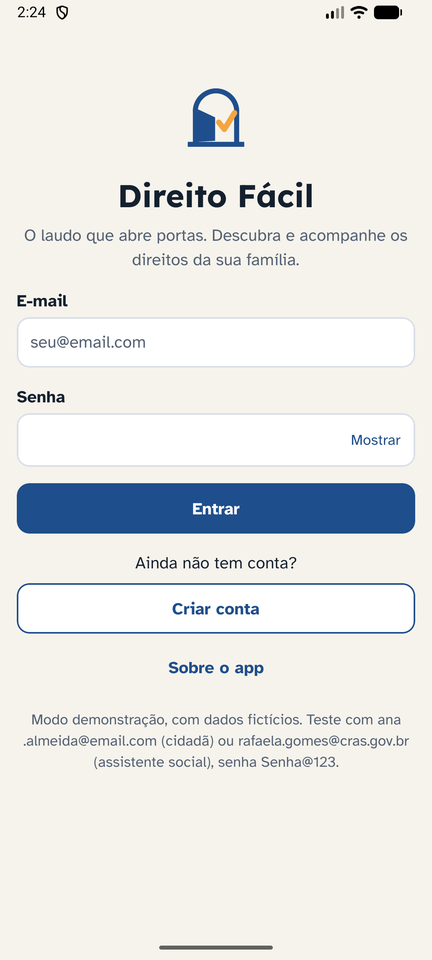
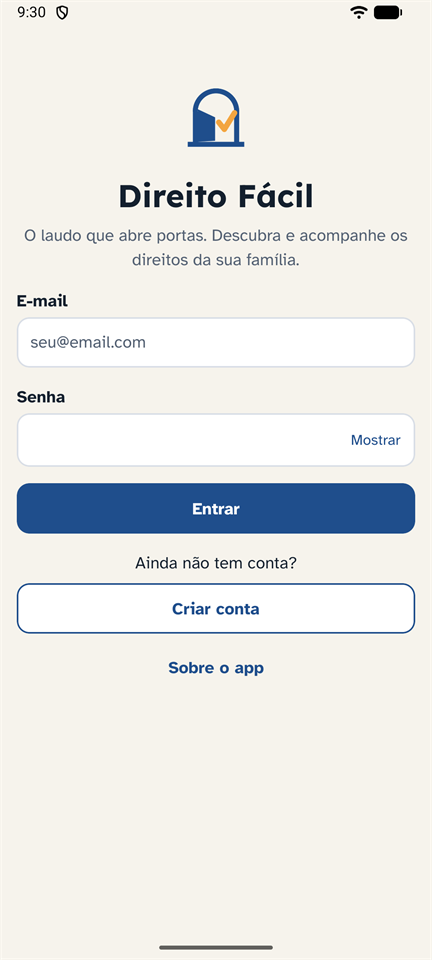
docs: README com o APK, o acesso para testar e prints novos

Changed region(s): [[0.0602, 0.75, 0.9329, 0.8125], [0.0301, 0.0, 0.1204, 0.0312], [0.7523, 0.0, 0.8125, 0.0312]]

diff --git a/README.md b/README.md
@@ -9,9 +9,13 @@ Famílias de pessoas com autismo (TEA), com deficiência (PcD) e idosos de baixa
 <table>
   <tr>
     <td align="center"><img src="docs/telas/01-login.png" width="200" alt="Tela de login" /><br />Login</td>
-    <td align="center"><img src="docs/telas/02-meus-direitos.png" width="200" alt="Lista Meus direitos" /><br />Meus direitos</td>
-    <td align="center"><img src="docs/telas/03-detalhe-do-direito.png" width="200" alt="Detalhe do direito com a linha do tempo do pedido" /><br />Detalhe do direito</td>
-    <td align="center"><img src="docs/telas/04-receita.png" width="200" alt="Resultado da consulta da receita na Farmácia Popular" /><br />Minha receita</td>
+    <td align="center"><img src="docs/telas/02-inicio.png" width="200" alt="Início com a família, os pedidos e a barra de abas" /><br />Início</td>
+    <td align="center"><img src="docs/telas/03-meus-direitos.png" width="200" alt="Lista Meus direitos com filtros e status" /><br />Meus direitos</td>
+  </tr>
+  <tr>
+    <td align="center"><img src="docs/telas/04-detalhe-do-direito.png" width="200" alt="Detalhe do direito com a linha do tempo do pedido e o passo a passo" /><br />Detalhe do direito</td>
+    <td align="center"><img src="docs/telas/05-receita.png" width="200" alt="Resultado da consulta da receita na Farmácia Popular" /><br />Minha receita</td>
+    <td align="center"><img src="docs/telas/06-perfil.png" width="200" alt="Perfil com dados da conta e resumo da família" /><br />Perfil</td>
   </tr>
 </table>
 
@@ -19,22 +23,35 @@ Famílias de pessoas com autismo (TEA), com deficiência (PcD) e idosos de baixa
 
 Link em breve.
 
+## Acesso para testar
+
+O app já vem ligado às APIs publicadas. Basta instalar o APK e entrar com uma destas contas:
+
+| Papel         | E-mail                      | Senha       |
+| ------------- | --------------------------- | ----------- |
+| Cidadão       | `ana.almeida@email.com`     | `Senha@123` |
+| Gestor (CRAS) | `rafaela.gomes@cras.gov.br` | `Senha@123` |
+
+Também dá para criar uma conta nova na tela de cadastro. Os dados são fictícios. Outras contas estão em [Contas de teste](#contas-de-teste).
+
+> Se o app ficar parado na primeira entrada, aguarde: a API Java fica no plano gratuito do Render, que desliga quando não é usada e leva até 1 minuto para voltar.
+
 ## Base técnica
 
 O app segue a arquitetura e as bibliotecas do app de referência das aulas (`mockmerce-app`):
 
-| Peça               | Biblioteca                                                                            |
-| ------------------ | ------------------------------------------------------------------------------------- |
-| Navegação          | React Navigation (`native-stack` + `bottom-tabs`) com guarda de rotas e barra de abas |
-| Estado de servidor | TanStack Query (`useQuery` e `useMutation`)                                           |
-| HTTP               | Axios, com **uma** instância e interceptors                                           |
-| Credencial         | `expo-secure-store` (token)                                                           |
-| Dado local         | `@react-native-async-storage/async-storage` (nome e papel do usuário)                 |
-| Animação           | `react-native-reanimated` (toque e carregamento)                                      |
-| Câmera e galeria   | `expo-image-picker`                                                                   |
-| Ícones             | `@expo/vector-icons` (Material Design Icons, o conjunto do próprio Expo)              |
-| Fontes             | `expo-font`, com os arquivos em `assets/fonts`                                        |
-| Notificação        | `expo-notifications` (notificação local, sem push e sem Firebase)                     |
+| Peça               | Biblioteca                                                                              |
+| ------------------ | --------------------------------------------------------------------------------------- |
+| Navegação          | React Navigation (`native-stack` + `bottom-tabs`) com guarda de rotas e barra de abas   |
+| Estado de servidor | TanStack Query (`useQuery` e `useMutation`)                                             |
+| HTTP               | Axios, com **uma** instância e interceptors                                             |
+| Credencial         | `expo-secure-store` (token)                                                             |
+| Dado local         | `@react-native-async-storage/async-storage` (nome e papel do usuário, avisos já vistos) |
+| Animação           | `react-native-reanimated` (toque, carregamento, entrada das listas, abas e avisos)      |
+| Câmera e galeria   | `expo-image-picker`                                                                     |
+| Ícones             | `@expo/vector-icons` (Material Design Icons, o conjunto do próprio Expo)                |
+| Fontes             | `expo-font`, com os arquivos em `assets/fonts`                                          |
+| Notificação        | `expo-notifications` (notificação local, sem push e sem Firebase)                       |
 
 Expo SDK 58, a versão que o Expo Go atual abre.
 
@@ -83,7 +100,8 @@ As telas principais ficam numa **barra de abas** embaixo: Início, Direitos, Doc
 | Rotas protegidas                            | Quatro caminhos no `RootNavigator`: lendo a sessão, sem sessão, cidadão e gestor. As telas de um papel não existem para o outro                                                                                                                                  |
 | Identidade visual                           | `src/lib/tema.ts` (cores, fontes, espaços), `assets/fonts` (Lexend e Atkinson Hyperlegible, licença OFL), ícone e ilustrações próprias em `assets/`                                                                                                              |
 | Arquitetura                                 | Pastas por responsabilidade (abaixo), ESLint + Prettier, TypeScript estrito e a regra de camadas no lint                                                                                                                                                         |
-| Publicação                                  | Firebase App Distribution e tela "Sobre o app" com o hash do commit, calculado no build                                                                                                                                                                          |
+| Publicação                                  | APK gerado do commit final (ver [Gerar o APK](#gerar-o-apk)) e tela "Sobre o app" com o hash do commit, calculado no build                                                                                                                                       |
+| Vídeo                                       | [Vídeo de demonstração](#vídeo-de-demonstração), até 5 minutos                                                                                                                                                                                                   |
 
 ## Arquitetura em camadas
 
@@ -103,11 +121,11 @@ src/
   storage/     SecureStore (credencial) × AsyncStorage (dado) e a ponte do 401
   services/    "o que o app quer" -> "qual endpoint chamar"
   hooks/       estado de servidor com TanStack Query
-  contexts/    sessão (AuthContext) e snackbar
+  contexts/    sessão (AuthContext), avisos dos pedidos (AvisosContext) e snackbar
   navigation/  a guarda de rotas e os tipos de cada pilha
   components/  peças visuais reaproveitadas
   screens/     as telas
-  lib/         tema, queryClient, formatação, validação, rótulos, câmera, JWT
+  lib/         tema, animações, queryClient, formatação, validação, rótulos, câmera, JWT
 assets/
   fonts/       .ttf e licenças
   images/      logo e ilustração
@@ -204,7 +222,7 @@ Depois de mudar o `.env`, reinicie com `npx expo start --clear`. Nada secreto va
 
 As mesmas contas funcionam no modo demonstração e nas APIs publicadas. Todos os dados são **fictícios**, os da carga do banco (repositório `DireitoFacil-DB`: 20 direitos e 31 casos). Senha de todos: `Senha@123`.
 
-Para a demonstração com as APIs publicadas, use a Ana (cidadã) e a Rafaela (gestora): a Ana tem um único familiar, o Lucas, e é assim que o Java liga o laudo enviado à pessoa certa.
+Para a demonstração com as APIs publicadas, use a Ana (cidadã, mãe do Lucas) e a Rafaela (gestora): a Ana pede a análise de um direito do Lucas e a Rafaela aprova ou devolve o pedido.
 
 | E-mail                      | Papel   | Família                        | Direitos                           |
 | --------------------------- | ------- | ------------------------------ | ---------------------------------- |
@@ -232,18 +250,42 @@ Para a demonstração com as APIs publicadas, use a Ana (cidadã) e a Rafaela (g
 3. **Logout limpa tudo.** Saia e entre com outra conta: nada da família anterior aparece.
 4. **Resultado possível.** Entre como `rita.barbosa@email.com` e abra o BPC: aparece "Pode ser que você tenha direito", com o motivo e o botão **Completar informação**.
 5. **Renda individual.** No cadastro da Rita, escolha "Não sei / prefiro não informar" e salve: o passe do idoso passa para "Pode ser que tenha direito".
-6. **Receita.** Em Minha receita, escolha o familiar e fotografe qualquer papel: a leitura de demonstração traz 4 remédios e o resultado mostra 2 de graça, 1 com dosagem diferente e 1 fora da lista.
+6. **Receita.** Em Minha receita, escolha o familiar e fotografe uma receita. Com as APIs, a IA lê os remédios da foto; confira a leitura e veja o resultado da Farmácia Popular. No modo demonstração, qualquer papel serve: a leitura traz 4 remédios e o resultado mostra 2 de graça, 1 com dosagem diferente e 1 fora da lista.
 7. **Aviso de decisão.** Entre como Ana, saia, entre como Rafaela e aprove o envio do Lucas. Volte como Ana: o Início mostra "Pedido aprovado" e a aba Direitos mostra 1. No APK, com a Ana logada e o app aberto, a notificação chega em até 1 minuto depois da decisão.
 8. **`401` derruba a sessão.** Com a API real, expire o token e puxe uma lista: o app volta para o login sozinho, com aviso. Um `401` só da API .NET mostra erro, sem deslogar.
 
-## Publicação (Firebase App Distribution)
+## Gerar o APK
 
-A versão publicada precisa ser igual ao código do commit mostrado em "Sobre o app". O hash **não é preenchido à mão**: o `app.config.js` lê o `git rev-parse --short HEAD` na hora do build (ou o `EAS_BUILD_GIT_COMMIT_HASH`, no EAS Build). Se houver arquivo alterado e não commitado, o hash aparece com o sufixo `-alterado`, e esse build não deve ser publicado.
+O app é entregue como APK. A versão entregue precisa ser igual ao código do commit mostrado em "Sobre o app". O hash **não é preenchido à mão**: o `app.config.js` lê o `git rev-parse --short HEAD` na hora do build (ou o `EAS_BUILD_GIT_COMMIT_HASH`, no EAS Build). Se houver arquivo alterado e não commitado, o hash aparece com o sufixo `-alterado`, e esse APK não deve ser entregue.
+
+Precisa do Android Studio instalado (ele traz o Android SDK e o JDK).
 
 1. Commite tudo e confira que `git status` está limpo.
-2. Gere o APK com `EXPO_PUBLIC_DATA_SOURCE=api`.
-3. Abra "Sobre o app" no APK e confira que o hash é igual ao de `git rev-parse --short HEAD`.
-4. Envie o APK ao Firebase App Distribution com o e-mail do professor como tester.
+2. Confira que o `.env` está com `EXPO_PUBLIC_DATA_SOURCE=api` e os endereços publicados.
+3. Gere o projeto Android nativo (a pasta `android/` fica fora do Git):
+
+   ```bash
+   npx expo prebuild --platform android --clean
+   ```
+
+4. O `prebuild` troca os scripts `android` e `ios` do `package.json`. Desfaça essa troca, senão o hash sai como `-alterado`:
+
+   ```bash
+   git checkout -- package.json
+   ```
+
+5. Compile o APK:
+
+   ```bash
+   cd android
+   ./gradlew assembleRelease
+   ```
+
+   No Prompt de Comando do Windows, use `gradlew assembleRelease`. O APK sai em `android/app/build/outputs/apk/release/app-release.apk`.
+
+6. Instale o APK no celular, abra "Sobre o app" e confira que o hash é igual ao de `git rev-parse --short HEAD`.
+
+No APK a notificação do sistema funciona (ver [Avisos dos pedidos](#avisos-dos-pedidos)): na primeira entrada, o Android pede permissão para notificar.
 
 ## Uso de IA generativa
 
